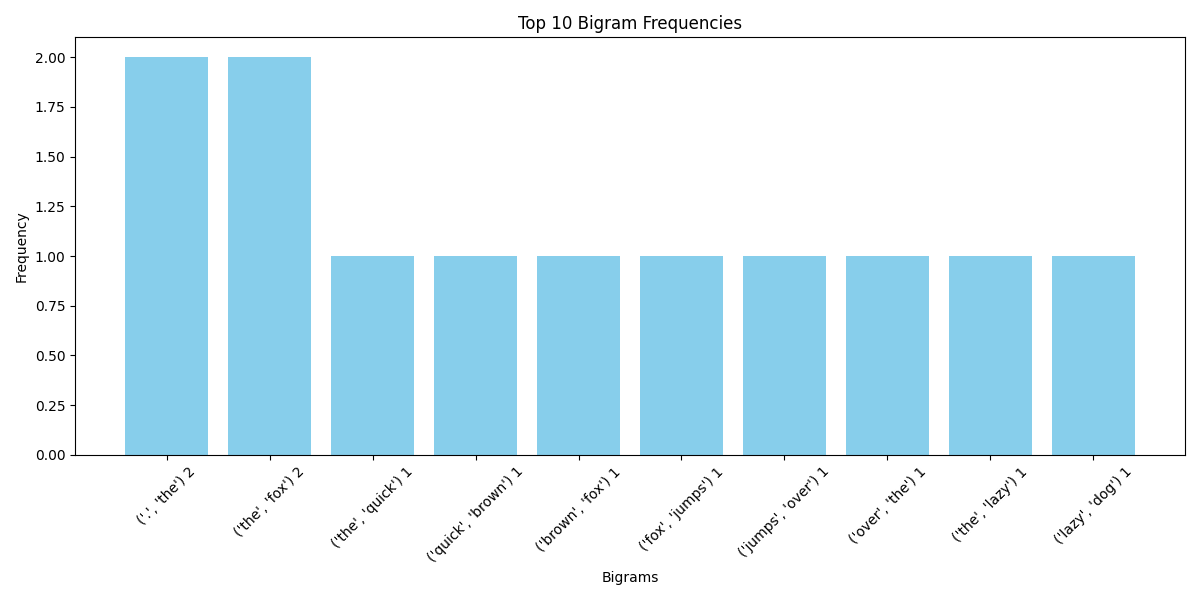
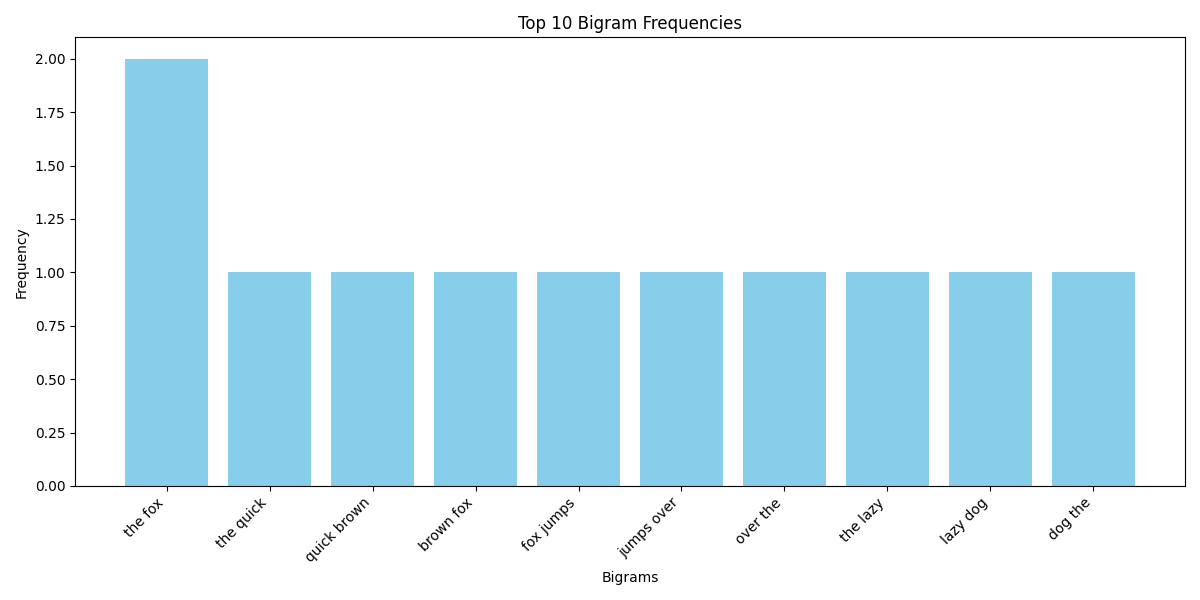
Fix Value error in trigram

diff --git a/nlp.py b/nlp.py
@@ -3,14 +3,13 @@ from nltk import word_tokenize
 from nltk.util import ngrams
 from collections import Counter, defaultdict
 import matplotlib.pyplot as plt
-import os
 
 # Ensure nltk resources are available
 nltk.download('punkt')
 
 # Sample text corpus
-corpus = """The quick brown fox jumps over the lazy dog. The dog barks back at the fox.
-            The fox runs away into the forest. A quick red fox appears."""
+corpus = """The quick brown fox jumps over the lazy dog The dog barks back at the fox.
+            The fox runs away into the forest A quick red fox appears"""
 
 # Tokenize the text
 tokens = word_tokenize(corpus.lower())
@@ -74,13 +73,13 @@ print(f"Output written to {output_file}")
 
 # Plotting the graphs
 def plot_frequency_graph(data, title, xlabel, ylabel, output_filename):
-    words, frequencies = zip(*data)
+    labels, frequencies = zip(*data)
     plt.figure(figsize=(12, 6))
-    plt.bar(words, frequencies, color='skyblue')
+    plt.bar(labels, frequencies, color='skyblue')
     plt.title(title)
     plt.xlabel(xlabel)
     plt.ylabel(ylabel)
-    plt.xticks(rotation=45)
+    plt.xticks(rotation=45, ha="right")
     plt.tight_layout()
     plt.savefig(output_filename)
     plt.close()
@@ -92,12 +91,12 @@ plot_frequency_graph(unigram_data, 'Top 10 Unigram Frequencies', 'Unigrams', 'Fr
 
 # Plot Bigram Frequencies
 bigram_data = bigram_counts.most_common(10) # Top 10 bigrams
-bigram_labels = [f"{w1} {w2}" for (w1, w2) in bigram_data]
+bigram_labels = [f"{w1} {w2}" for (w1, w2) in [pair for pair, count in bigram_data]]
 bigram_frequencies = [count for _, count in bigram_data]
 plot_frequency_graph(list(zip(bigram_labels, bigram_frequencies)), 'Top 10 Bigram Frequencies', 'Bigrams', 'Frequency', 'bigram_frequencies.png')
 
 # Plot Trigram Frequencies
 trigram_data = trigram_counts.most_common(10) # Top 10 trigrams
-trigram_labels = [f"{w1} {w2} {w3}" for (w1, w2, w3) in trigram_data]
+trigram_labels = [f"{w1} {w2} {w3}" for (w1, w2, w3) in [triplet for triplet, count in trigram_data]]
 trigram_frequencies = [count for _, count in trigram_data]
 plot_frequency_graph(list(zip(trigram_labels, trigram_frequencies)), 'Top 10 Trigram Frequencies', 'Trigrams', 'Frequency', 'trigram_frequencies.png')
